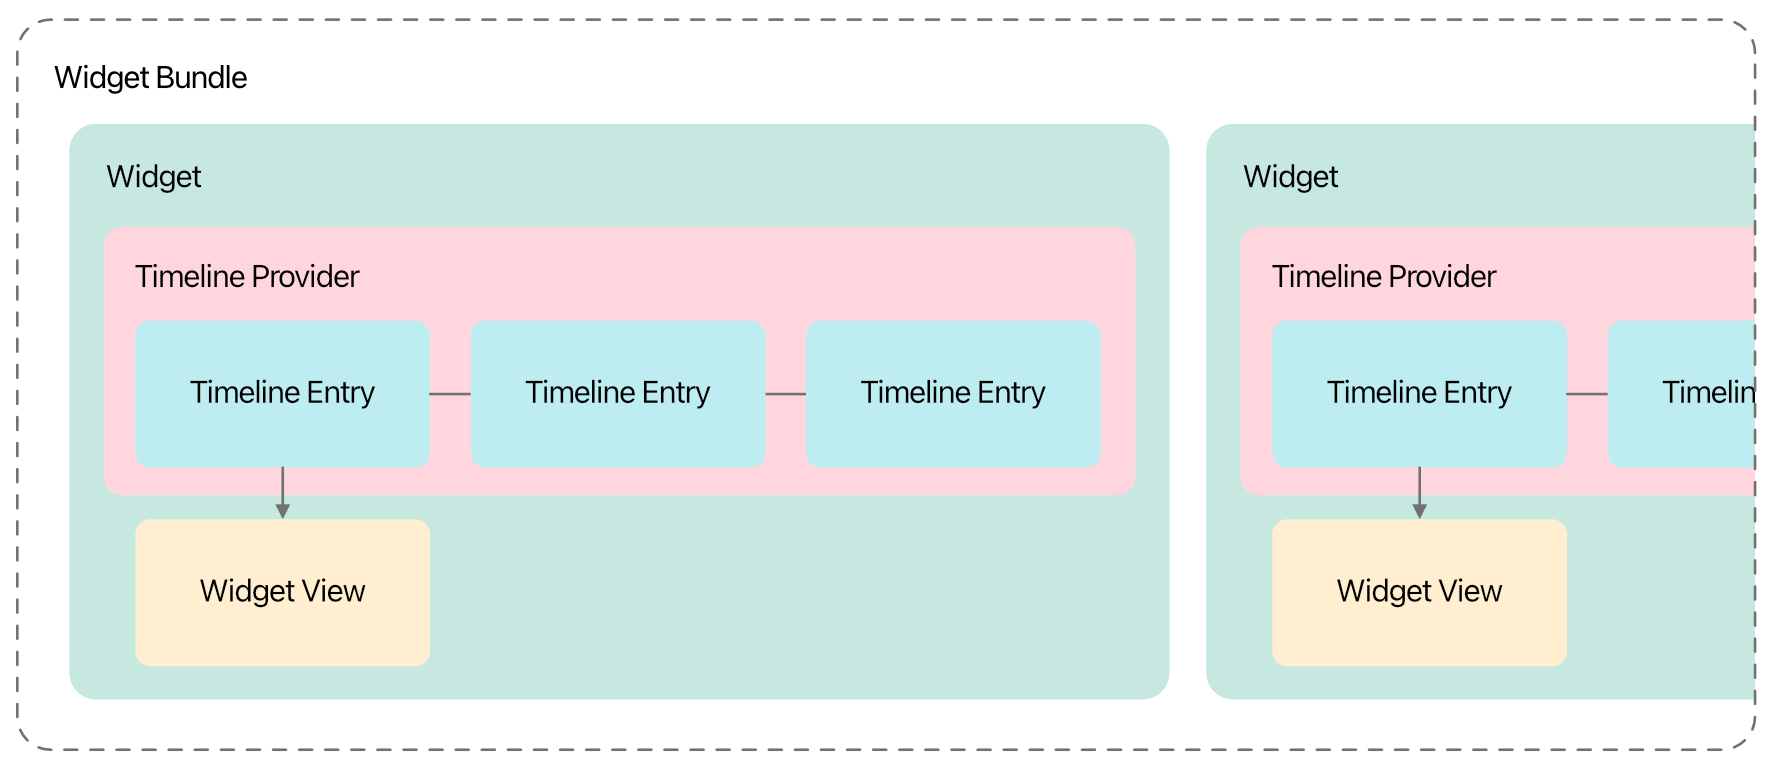
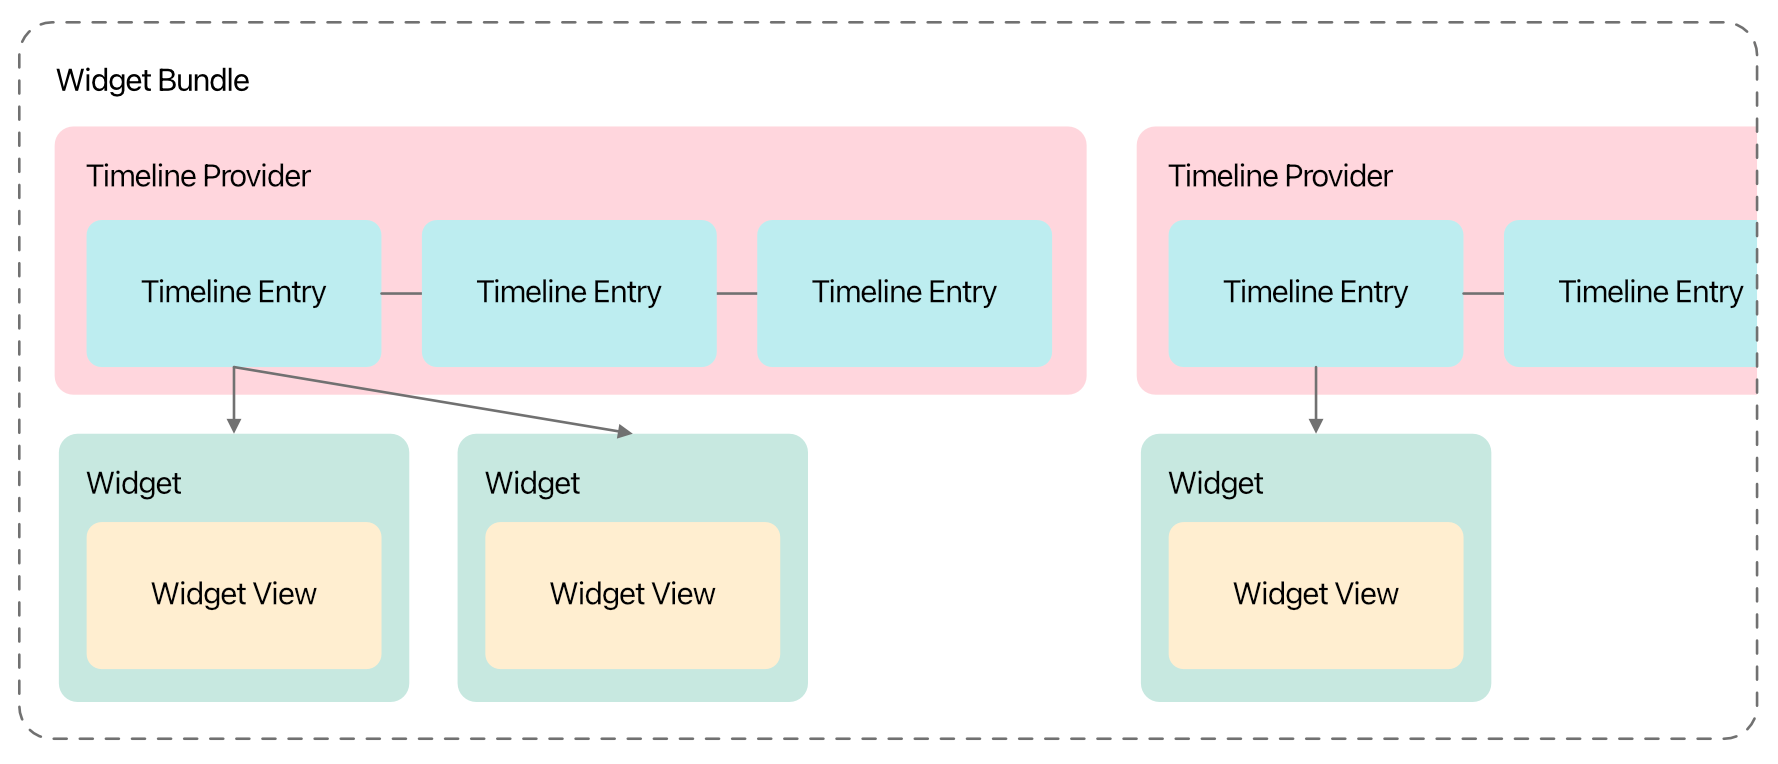
Add note about multiple widgets, change image

diff --git a/content/2023-08-12-anatomy-of-a-widget.md b/content/2023-08-12-anatomy-of-a-widget.md
@@ -167,6 +167,8 @@ struct MyWidgets: WidgetBundle {
 
 Multiple different widgets can be returned, just put each on a new line within the `body`. You can also do some logic here, such as `if #available` checks to limit certain widgets to particular iOS versions, etc.
 
+If you have multiple widgets that need the same data, you can reuse the same Timeline Entry and Timeline Provider in multiple `Widget` structs.
+
 ---
 
 With that, your app should be able to provide one or more widgets to the user, and control what sizes they are available in. However, you can't yet provide options for the user to pick from, allowing them to "edit" the widget. I'll write up what I know about that in another post, soon!
